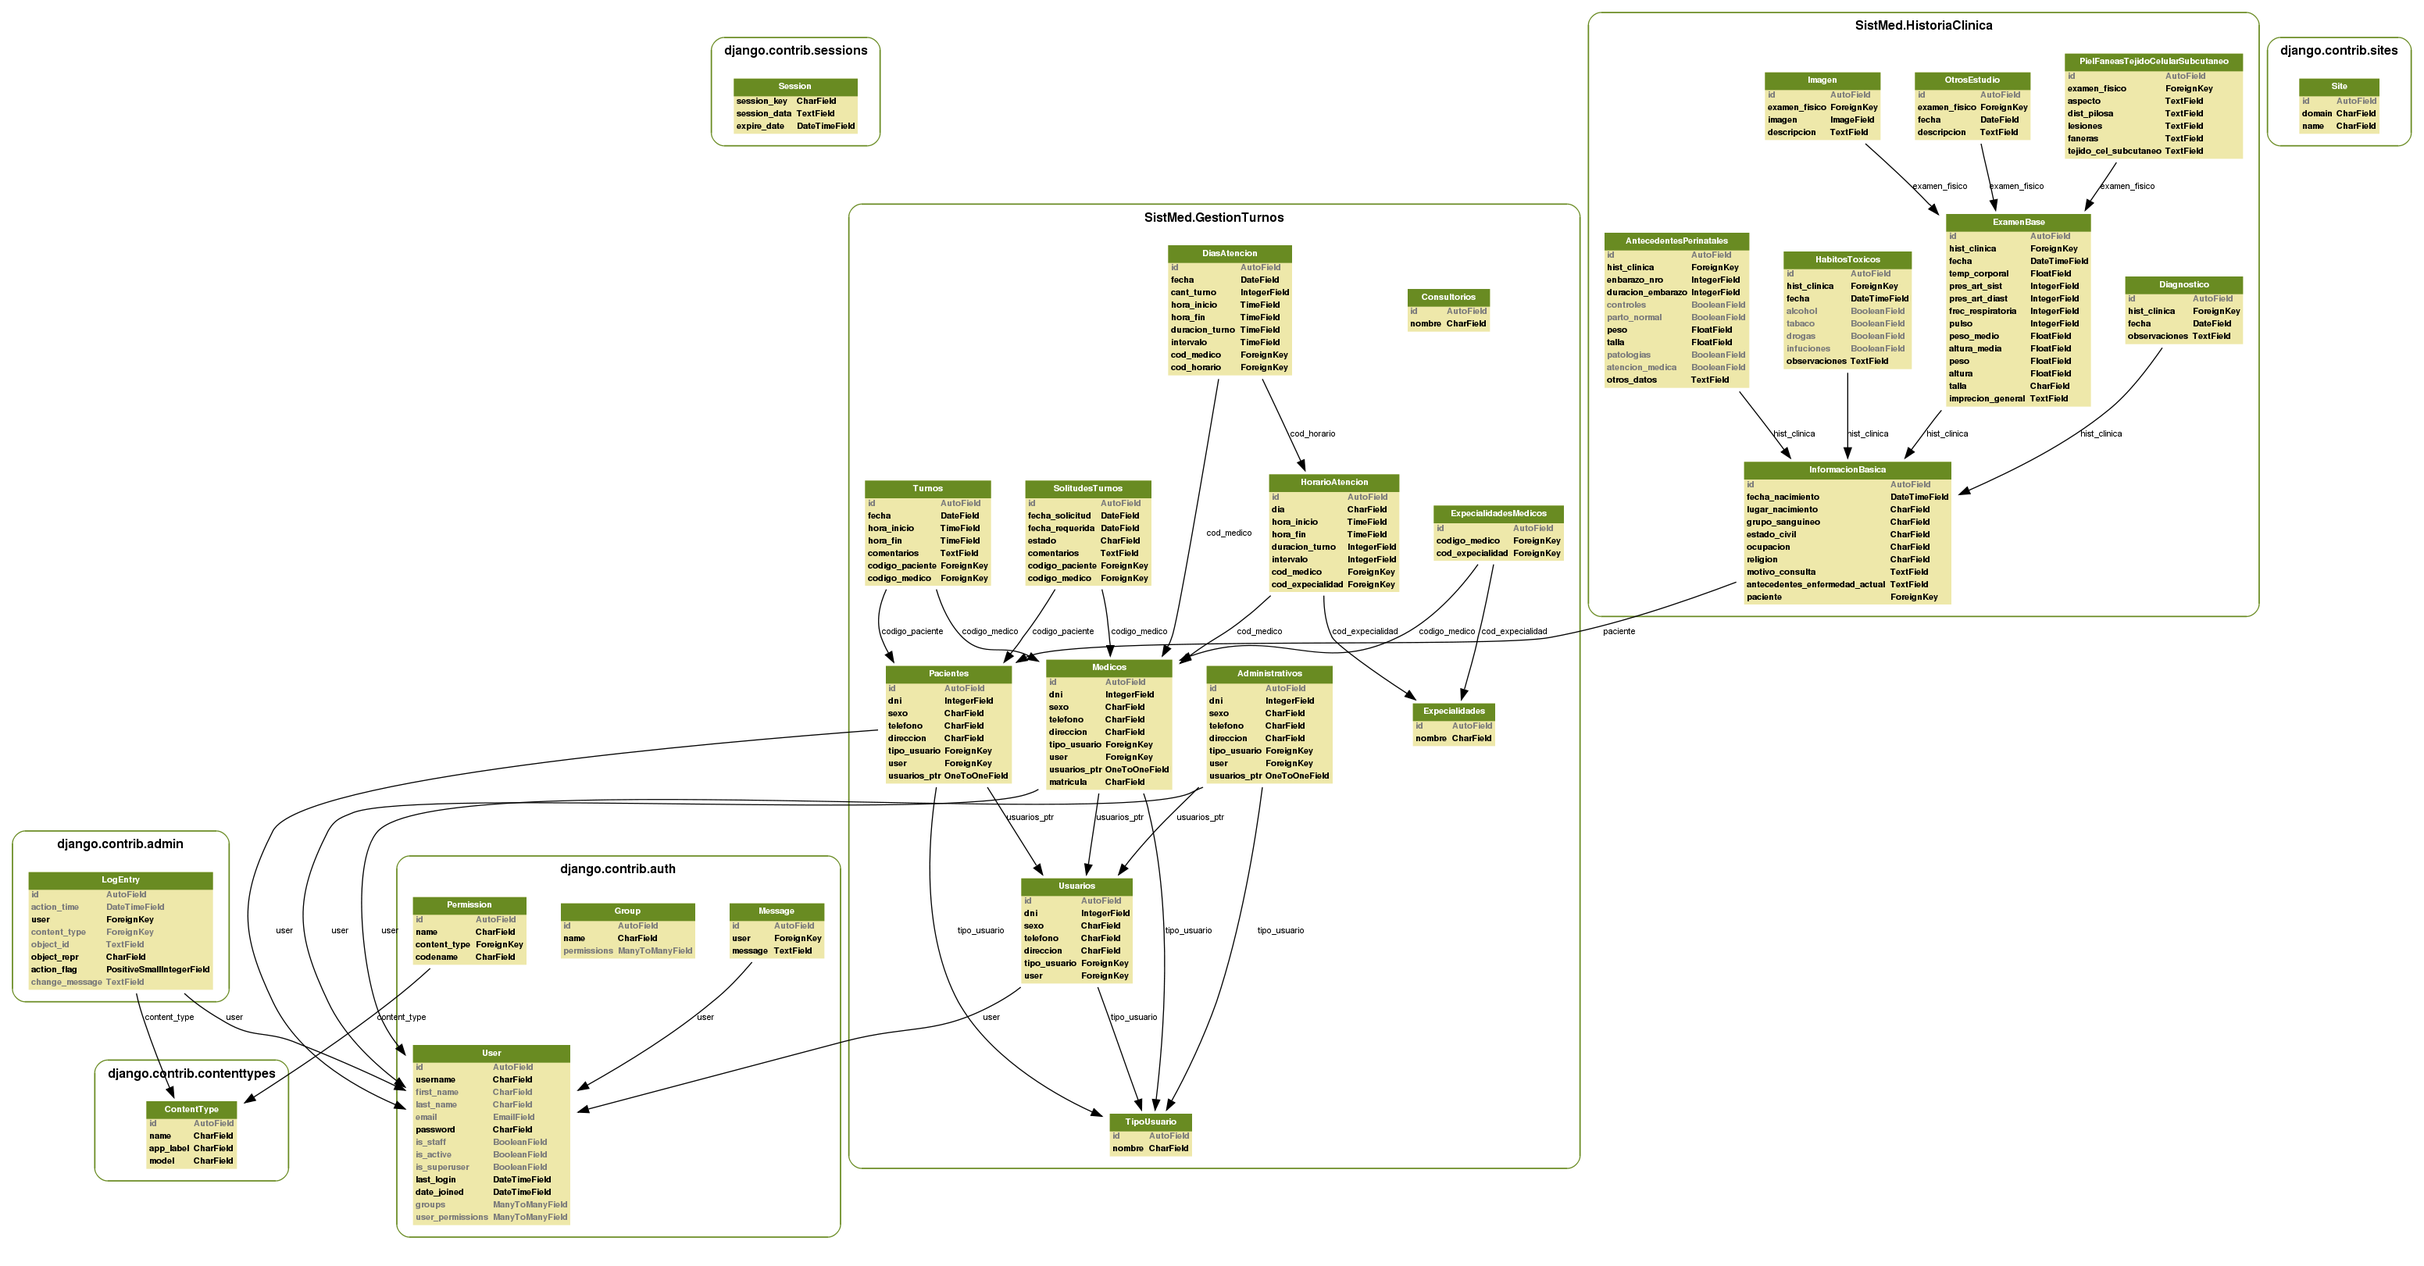
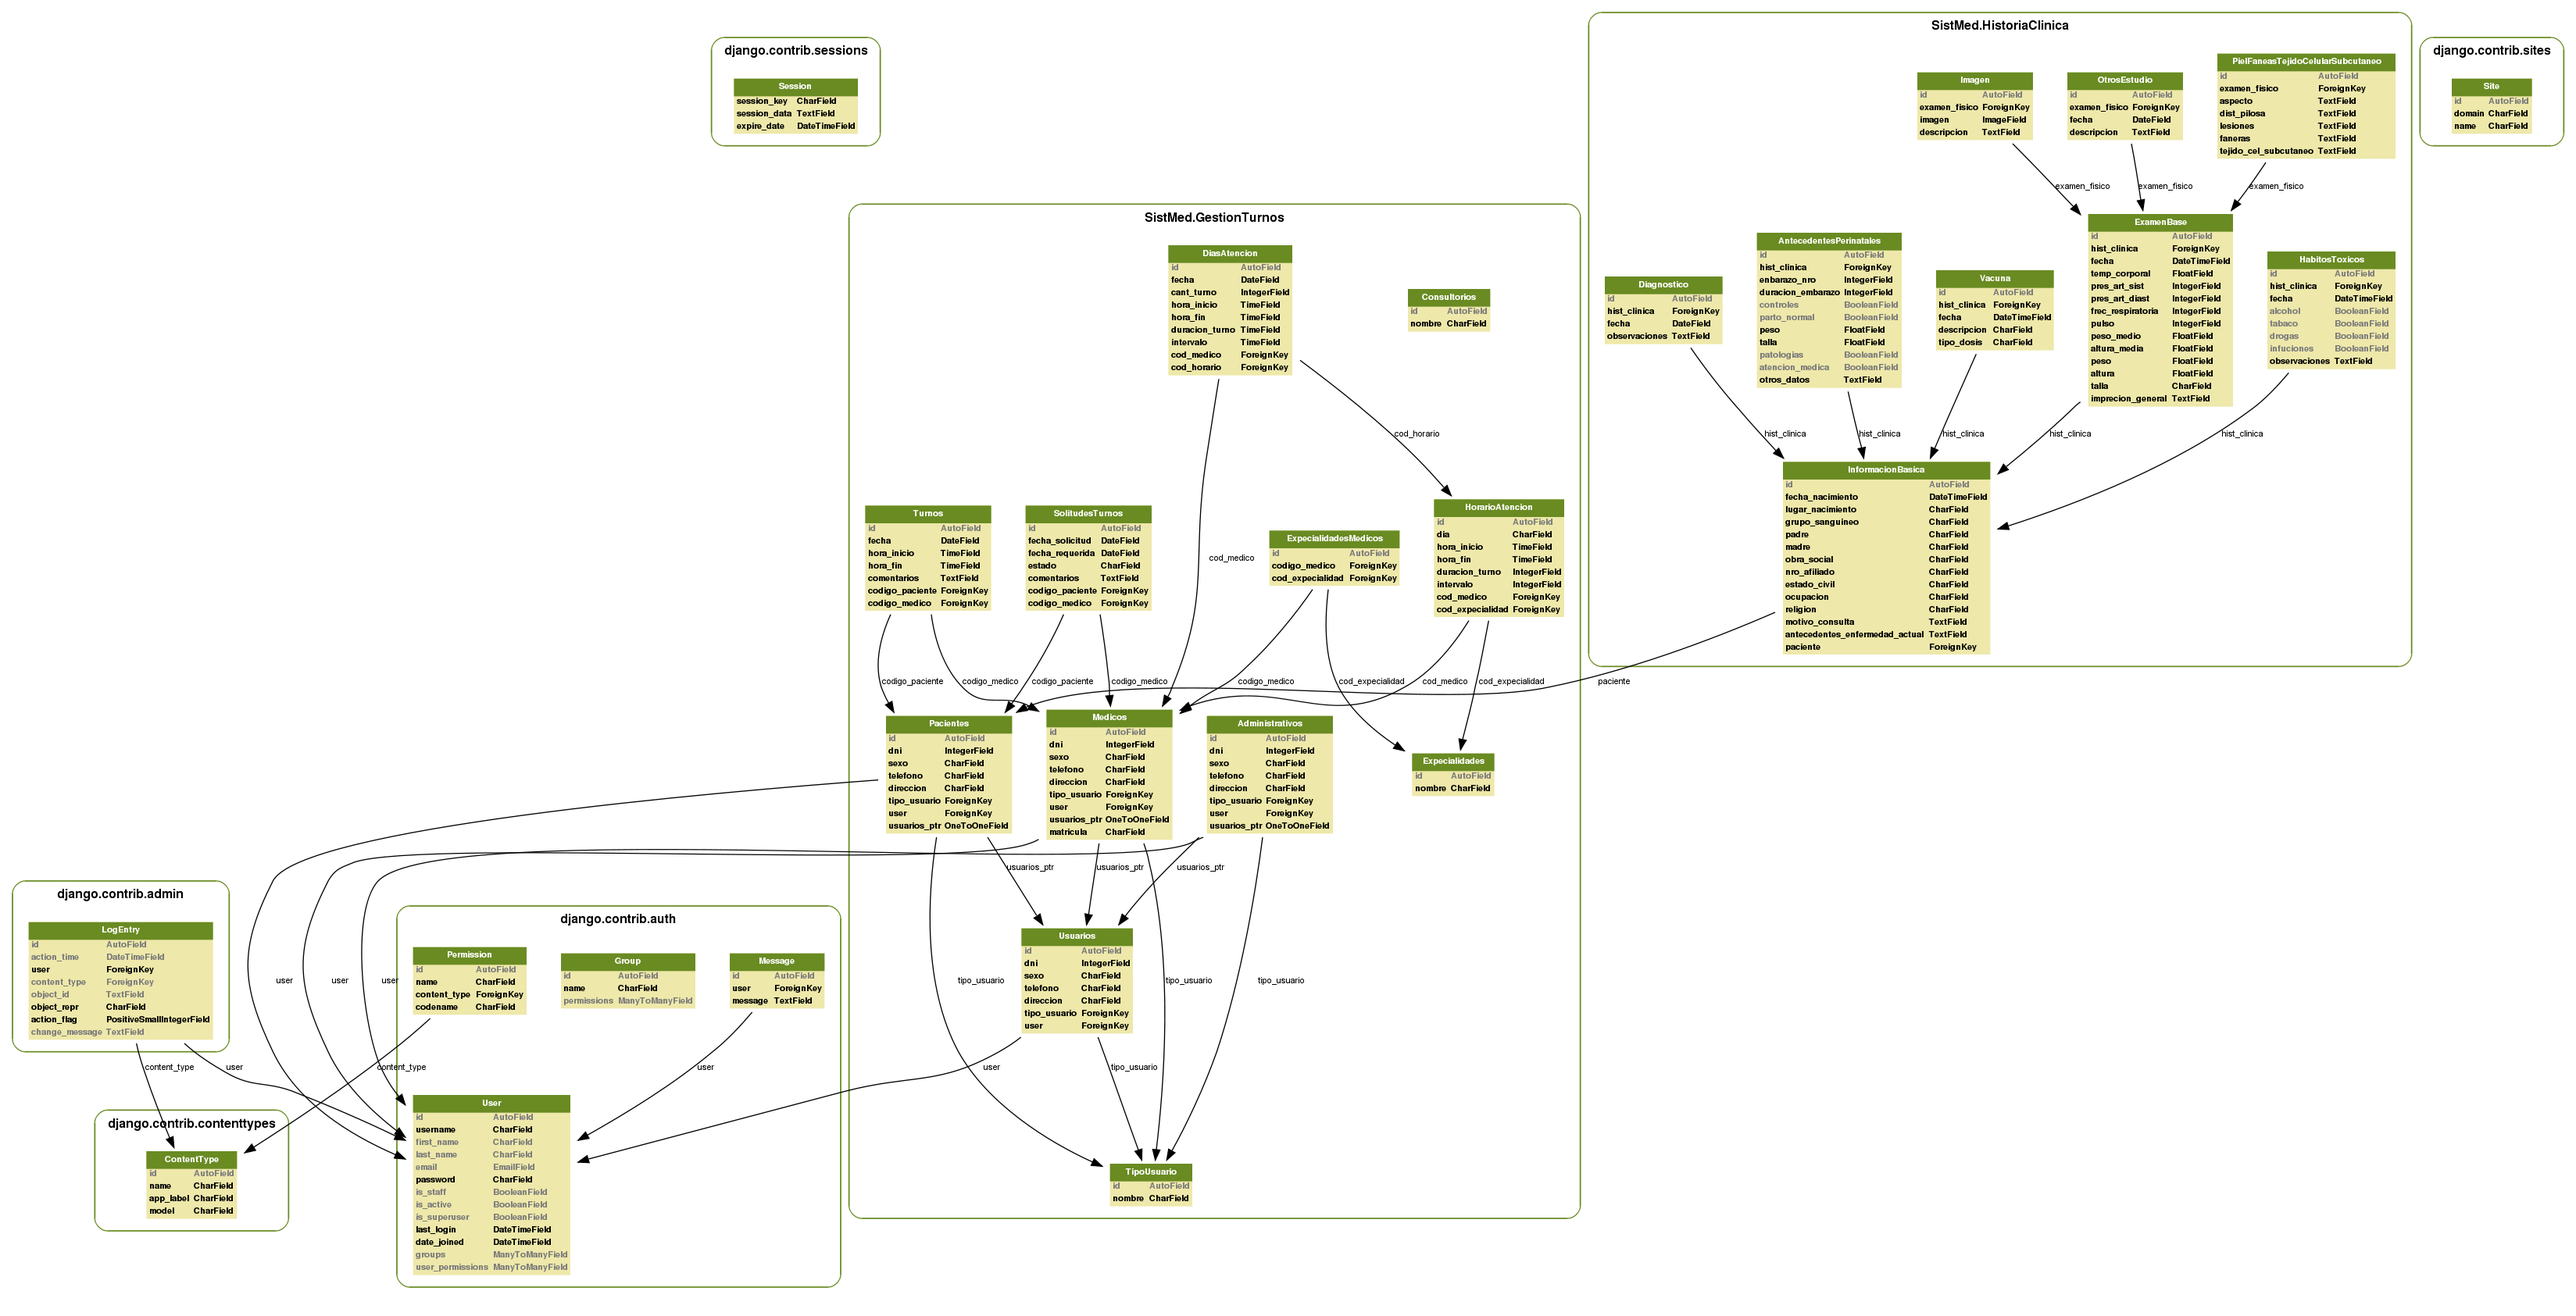
Agregada la tabla de Vacunacion y un par de campos q habia omitido en InformacionBasica

diff --git a/SistMed/templates/medicos/historia_clinica/mostrar-datos-base.html b/SistMed/templates/medicos/historia_clinica/mostrar-datos-base.html
@@ -4,34 +4,72 @@
 {% endblock %}
 
 {% block contenido %}
-<table>
+
+
+<table width="700px" border="0" cellpadding="0" cellspacing="2">
+<tbody>
     <tr>
-        <td><label>Nombre:</label></td>
-        <td><label>{{ nombre }}</label></td>
+        <td colspan='3' width="400px" class='tbl_separador'><h5>Identificacion</h5></td>
+        <td><a href="" class="boton">Modificar</a></td>
     </tr>
     <tr>
-        <td><label>:</label></td>
-        <td><label>{{  }}</label></td>
+        <td><label><strong>Nombre:</strong></label></td><td>{{ nombre }}</td>
+        <td><label><strong>DNI:</strong></label></td><td>{{ dni }}</td>
     </tr>
     <tr>
-        <td><label>:</label></td>
-        <td><label>{{  }}</label></td>
+        <td><label><strong>Lugar de Nacimiento:</strong></label></td><td colspan="3">{{ lugar_nacimiento }}</td>
     </tr>
     <tr>
-        <td><label>:</label></td>
-        <td><label>{{  }}</label></td>
+        <td><label><strong>Padre:</strong></label></td><td colspan="3">{{ padre }}</td>
     </tr>
     <tr>
-        <td><label>:</label></td>
-        <td><label>{{  }}</label></td>
+        <td><label><strong>Madre:</strong></label></td><td colspan="3">{{ madre }}</td>
     </tr>
     <tr>
-        <td><label>:</label></td>
-        <td><label>{{  }}</label></td>
+        <td><label><strong>Obra Social:</strong></label></td><td><label>{{ obra_social }}</td>
+        <td><label><strong>Nro Afiliado:</strong></label></td><td><label>{{ nro_afiliado }}</td>
     </tr>
-    
+
+    <tr>
+        <td><label><strong>Sexo:</strong></label></td><td>{{ sexo }}</td>
+        <td><label><strong>Grupo Sanguineo:</strong></label></td><td>{{ grupo_sanguineo }}</td>
+    </tr>
+</tbody>
 </table>
 
+<br /><br />
 
+<table width="700px" border="0" cellpadding="0" cellspacing="2">
+<tbody>
+    <tr>
+        <td colspan='3' width="400px" class='tbl_separador'><h5>Antecedentes Perinatales</h5></td>
+        <td><a href="" class="boton">Modificar</a></td>
+    </tr>
+
+    <tr>
+        <td><label><strong>Embarazo Nro:</strong></label></td><td>{{ nro_embarazo }}</td>
+        <td><label><strong>Duracion(semanas):</strong></label></td><td>{{ duracion }}</td>
+    </tr>
+
+    <tr>
+        <td><label><strong>Controles:</strong></label></td><td>{{ controles }}</td>
+        <td><label><strong>Parto Normal:</strong></label></td><td>{{ parto_normal }}</td>
+    </tr>
+
+    <tr>
+        <td><label><strong>Peso(gr):</strong></label></td><td>{{ peso }}</td>
+        <td><label><strong>Talla(cm):</strong></label></td><td>{{ talla }}</td>
+    </tr>
+
+    <tr>
+        <td><label><strong>Requirio Atencion Medica:</strong></label></td><td>{{ req_aten_med }}</td>
+        <td><label><strong>Patologias:</strong></label></td><td>{{ patologias }}</td>
+    </tr>
+
+    <tr>
+        <td><label><strong>Otra Informacion:</strong></label></td><td colspan="3">{{ otra_info }}</td>
+
+</tbody>
+</table>
 
 {% endblock %}

diff --git a/SistMed/templates/medicos/historia_clinica/nueva.html b/SistMed/templates/medicos/historia_clinica/nueva.html
@@ -27,6 +27,10 @@
 
     <tr><td><label>Fecha Nacimiento</label></td><td><input name="fecha_nac" class="edt_c" value="00/00/00" type="text"  /></td></tr>
     <tr><td><label>Lugar Nacimiento</label></td><td><input name="lugar_nac" class="edt_g" type="text"  /></td></tr>
+
+    <tr><td><label>Nombre del Padre</label></td><td><input name="padre" class="edt_g" type="text"  /></td></tr>
+    <tr><td><label>Nombre de la Madre</label></td><td><input name="madre" class="edt_g" type="text"  /></td></tr>
+
     <tr><td><label>Grupo Sanguineo</label></td>
     <td><select name="grupo_sanguineo" class="edt_c">
             <option value="-">---</option>
@@ -47,6 +51,9 @@
     </td></tr>
     <tr><td><label>Ocupacion</label></td><td><input name="ocupacion" class="edt" type="text"  /></td></tr>
     <tr><td><label>Religion</label></td><td><input name="religion" class="edt" type="text"  /></td></tr>
+
+    <tr><td><label>Obra Social</label></td><td><input name="obra_social" class="edt" type="text"  /></td></tr>
+    <tr><td><label>Nro Afiliado</label></td><td><input name="nro_afiliado" class="edt" type="text"  /></td></tr>
     <tr><td><label>Motivo Consulta</label></td><td><textarea name="motivo_consulta" type="textarea" class="edt"  ></textarea></td></tr>
     <tr><td colspan="2"><input type="hidden" value="1" name="query"  /></td></tr>
     <tr><td colspan="2">

diff --git a/SistMed/HistoriaClinica/medicos_views.py b/SistMed/HistoriaClinica/medicos_views.py
@@ -30,26 +30,23 @@ def nueva(request):
     dict['query'] = query
 
     if query:
-        _paciente = Pacientes.objects.get(id=int(get_value(request, 'pac_id')))
-        fecha_nac = date_split(get_value(request, 'fecha_nac', "01/01/01"))
-        lugar_nac = date_split(get_value(request, 'lugar_nac', ""))
-        grupo_sang = get_value(request, 'grupo_sanguineo', "--")
-        est_civil = get_value(request, 'estado_civil', "-")
-        _ocupacion = get_value(request, 'ocupacion', "-")
-        _religion = get_value(request, 'religion', "-")
-        motivo = get_value(request, 'motivo_consulta', "-")
-        
         hist_clinica = InformacionBasica.objects.create(
-                    paciente = _paciente, 
-                    fecha_nacimiento = fecha_nac, 
-                    lugar_nacimiento = lugar_nac, 
-                    grupo_sanguineo = grupo_sang, 
-                    estado_civil = est_civil, 
-                    ocupacion = _ocupacion, 
-                    religion = _religion, 
-                    motivo_consulta = motivo
-        )
-
+                    paciente = Pacientes.objects.get(id=int(get_value(request, 'pac_id'))),
+                    fecha_nacimiento = date_split(get_value(request, 'fecha_nac', "01/01/01")), 
+                    lugar_nacimiento = get_value(request, 'lugar_nac', ""), 
+                    grupo_sanguineo = get_value(request, 'grupo_sanguineo', "--"), 
+                    padre = get_value(request, 'padre', ""),
+                    madre = get_value(request, 'madre', ""),
+                    obra_social = get_value(request, 'obra_social', ""),
+                    nro_afiliado = get_value(request, 'nro_afiliado', ""),
+                    estado_civil = get_value(request, 'estado_civil', "-"), 
+                    ocupacion = get_value(request, 'ocupacion', "-"), 
+                    religion = get_value(request, 'religion', "-"), 
+                    motivo_consulta = get_value(request, 'motivo_consulta', "-")
+        )#guarda automaticament
+        dict['msj_class'] = MSJ_OK
+        dict['mensaje'] = 'Historia Clinica Creada'
+        
     pacientes = []
     #mas adelante tengo q hacer un filtrado d datos...
     for pac in Pacientes.objects.all():
@@ -68,8 +65,32 @@ def nueva(request):
     return HttpResponse(html)
 
 
-def mostrar_datos_paciente(request):
+def mostrar_datos_paciente(request, pac_id=-1):
     """
         
     """
+    plantilla = get_template('medicos/historia_clinica/mostrar-datos-base.html')
+    dict = generar_base_dict(request)
+    dict['titulo'] = 'Historia Clinica' 
     
+    pac_id = int(pac_id)
+    if pac_id != -1:
+        _paciente = Pacientes.objects.get(id=pac_id)
+        hist_clinica = InformacionBasica.objects.get(paciente=_paciente)
+        
+        dict["nombre"] = _paciente.nombre_completo()
+        dict["DNI"] = _paciente.dni
+        dict["lugar_nacimiento"] = hist_clinica.lugar_nacimiento
+        dict["padre"] = hist_clinica.padre
+        dict["madre"] = hist_clinica.madre
+        dict["obra_social"] = hist_clinica.obra_social
+        dict["nro_afiliado"] = hist_clinica.nro_afiliado
+        dict["sexo"] = sexo_choice_expand(_paciente.sexo)
+        dict["grupo_sanguineo"] = hist_clinica.grupo_sanguineo
+              
+    
+    
+    contexto = Context(dict)
+    html = plantilla.render(contexto)
+    return HttpResponse(html)
+

diff --git a/SistMed/HistoriaClinica/models.py b/SistMed/HistoriaClinica/models.py
@@ -22,6 +22,12 @@ class InformacionBasica(models.Model):
     lugar_nacimiento = models.CharField('Lugar Nacimiento', max_length=60)
     grupo_sanguineo = models.CharField('Grupo Sanguineo', max_length=3, default='--', choices=GRUPO_SANGUINEO_CHOICE)
 
+    #complementos agregados
+    padre = models.CharField('Padre', max_length=120)
+    madre = models.CharField('Madre', max_length=120)
+    obra_social = models.CharField('Obra Social', max_length=30)
+    nro_afiliado = models.CharField('Nro Afiliado', max_length=10)
+
     estado_civil = models.CharField('Estado Civil', max_length=1, default='-', choices=ESTADO_CIVIL_CHOICE)
     ocupacion = models.CharField(max_length=30)
     religion = models.CharField(max_length=30)
@@ -64,6 +70,18 @@ class HabitosToxicos(models.Model):
     infuciones = models.BooleanField('Infusiones')#S/N
     observaciones = models.TextField('Observaciones')#text
 
+
+#carnet de vacunacion
+class Vacuna(models.Model):
+    """
+        Para el Carnet de Vacunacion
+    """
+    hist_clinica = models.ForeignKey(InformacionBasica)
+    
+    fecha = models.DateTimeField()
+    descripcion = models.CharField(max_length=30)
+    tipo_dosis = models.CharField(max_length=3, default='---', choices=TIPO_DOSIS_CHOICE)
+    
 
 #Examen Fisico
 class ExamenBase(models.Model):

diff --git a/SistMed/utils.py b/SistMed/utils.py
@@ -132,11 +132,12 @@ def date_split(cad="01/01/1900"):
     """
         comvierte la cadena de texto en un objecto datetime
     """
-    list = [int(n) for n in cad.split("/")].reverse()
+    list = [int(n) for n in cad.split("/")]
+    list.reverse()
     if len(list) == 3: # ejem 01/01/1920 completo
-        fecha = datetime.datetime(list[2], list[1], list[0])
+        fecha = datetime.datetime(year=list[0], month=list[1], day=list[2])
     elif len(list) == 2: # ejem 01/03 falta el anio por lo tanto anio=0 -.-
-        fecha = datetime.datetime(0, list[1], list[0])
+        fecha = datetime.datetime(year=0, month=list[0], day=list[1])
     return fecha
 
 
@@ -147,3 +148,14 @@ def time_split(str="00:00:00"):
     list = [int(n) for n in cad.split(":")]
     hora = datetime.time(list[1], list[0])
     return hora
+
+
+def true_false(val=True):
+    """
+        Combierte Booleano en tipo SI/NO
+    """
+    if val:
+        return "Si"
+    else:
+        return "No"
+    

diff --git a/SistMed/GestionTurnos/especialidades_views.py b/SistMed/GestionTurnos/especialidades_views.py
@@ -24,18 +24,17 @@ def agregar(request):
     dict['query'] = query
 
     if query:
-        nombre = get_value(request, 'nombre', '', '', 'POST')
+        nombre = get_value(request, 'nombre', '')
         if nombre != '':
             if not(Expecialidades.objects.filter(nombre=nombre)):
                 exp = Expecialidades(nombre=nombre)
                 exp.save()
-                dict['query'] = True
                 dict['msj_class'] = MSJ_OK
                 dict['mensaje'] = 'Se a Agregado %s' %nombre
             else:
-                dict['query'] = True
                 dict['msj_class'] = MSJ_ERROR
                 dict['mensaje'] = 'Error la expecialidad ya existe %s' %nombre
+                
 
     contexto = Context(dict)
     html = plantilla.render(contexto)

diff --git a/SistMed/urls.py b/SistMed/urls.py
@@ -122,6 +122,8 @@ urlpatterns = patterns('',
     ## - Historia Clinica - ##
     # - Medicos Views
     (r'^historia-clinica/nueva/$', hc_med_views.nueva),
+    (r'^historia-clinica/mostrar-datos-base/$', hc_med_views.mostrar_datos_paciente),
+    (r'^historia-clinica/mostrar-datos-base/(\d{1,2})/$', hc_med_views.mostrar_datos_paciente),
 
 
     ## - Otras Views - ##

diff --git a/SistMed/constantes.py b/SistMed/constantes.py
@@ -81,6 +81,16 @@ GRUPO_SANGUINEO_CHOICE = (
     ("AB-","AB-"),
 )
 
+
+TIPO_DOSIS_CHOICE = (
+    ("UNI","Unica Dosis"),
+    ("1ra","1ra Dosis"),
+    ("2da","2da Dosis"),
+    ("3ra","3ra Dosis"),
+    ("REF","Refuerzo"),
+)
+
+
 GRUPOS_SANGUINEOS = (
     "O+",
     "O-",
